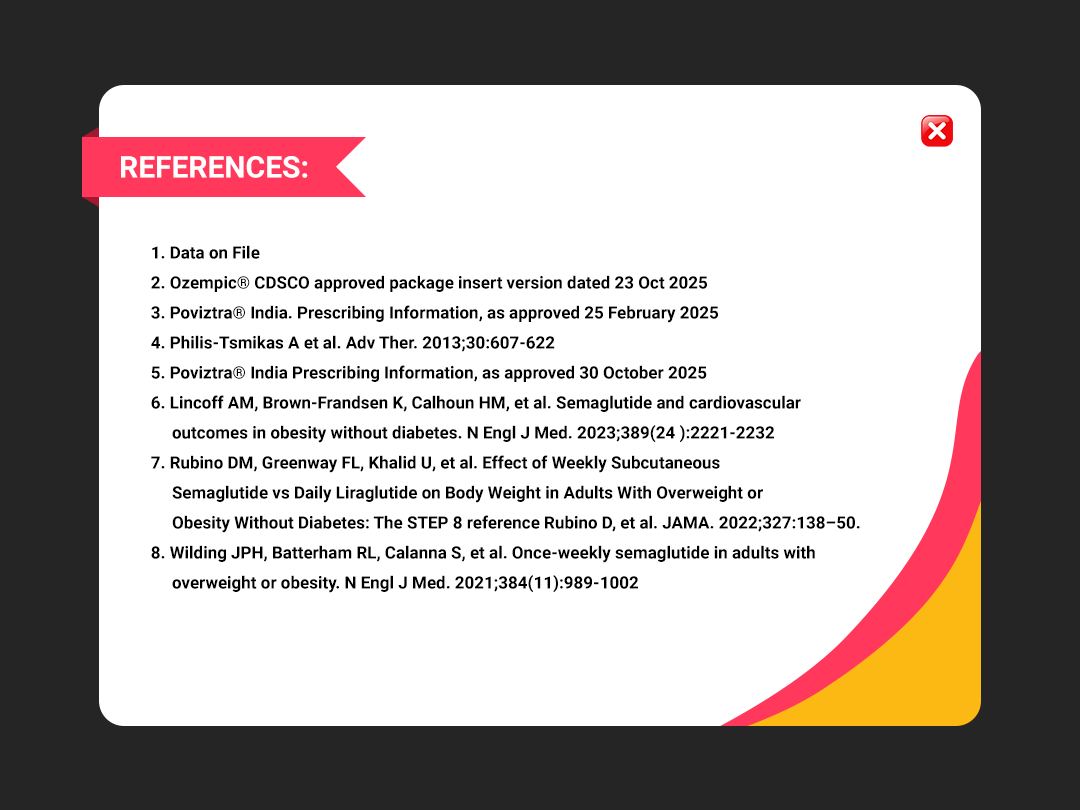
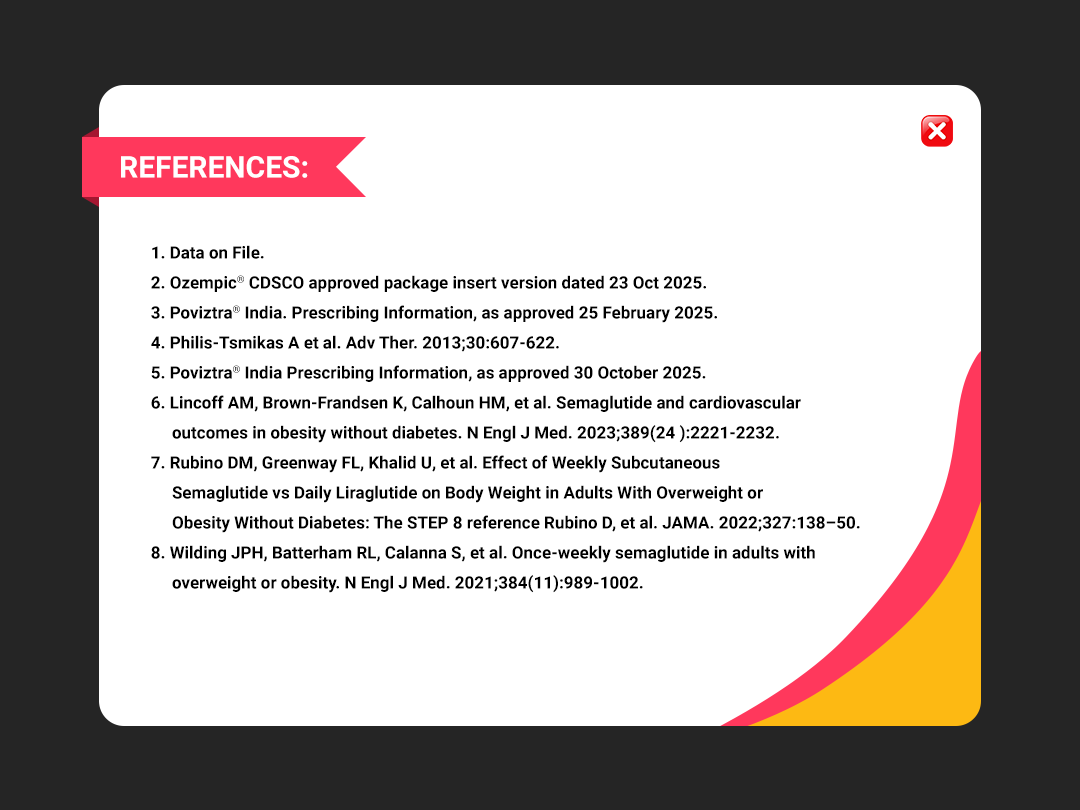
Update

Changed region(s): [[0.2139, 0.3395, 0.6722, 0.4012], [0.2139, 0.4321, 0.6722, 0.4938]]

diff --git a/slide2/slide2.js b/slide2/slide2.js
@@ -25,14 +25,14 @@ var POV_GAME_CONFIG = {
   },
 
   finalImage: 'slide2/shield.png',
-  finalText: 'You selected the parameters that matter the most,\nPoviztra delivers across every confidence driver – helping you prescribe with confidence every time.',
+  finalText: 'You selected the parameters that matter the most.\n<span class="finalText">Poviztra delivers</span> across every confidence driver – helping you prescribe with confidence every time.',
 
   parameters: [
     { parameter: 'PRODUCT QUALITY', usp: 'rDNA Technology<sup>1</sup>', icon: 'slide2/quality.png' },
 	{ parameter: 'PRODUCT PRICING', usp: 'Starts 3999/- Onwards<sup>1</sup>', icon: 'slide2/price.png' },
 	{ parameter: 'DEVICE\nEXPERIENCE', usp: 'FlexTouch Device<sup>2,3,4</sup>', icon: 'slide2/device.png' },
 	{ parameter: 'CLINICAL\nFINDINGS', usp: '50 Phase 3 Clinical Trials Conducted<sup>2,3</sup>', icon: 'slide2/clinical.png' },
-	{ parameter: 'CARDIO OUTCOMES', usp: 'SCORE Trial And STEER Trials<sup>3,5,6,7,8</sup>', icon: 'slide2/cardiovascular.png' },
+	{ parameter: 'CV OUTCOMES', usp: 'SCORE & STEER Trials<sup>3,5,6,7,8</sup>', icon: 'slide2/cardiovascular.png' },
 	{ parameter: 'STORAGE &\nTRANSPORT', usp: 'Robust & Reliable Cold-Chain<sup>1</sup>', icon: 'slide2/storage.png' },
 	{ parameter: 'REGULATORY\nAPPROVALS', usp: 'Approved By EMA, FDA, PMDA<sup>2,3</sup>', icon: 'slide2/regulatory.png' },
 	{ parameter: 'REAL WORLD\nEXPERIENCE', usp: '49M Patient-Years Of Experience<sup>1</sup>', icon: 'slide2/real-world.png' }
@@ -118,7 +118,7 @@ function bindPovEvents() {
   });
 
   $(document).off('click.povProceed').on('click.povProceed', '#povProceedBtn', function () {
-    showPovFuturePanel();
+	  begin();
   });
 }
 
@@ -304,7 +304,7 @@ function showPovCompletedState() {
 	 playPovSuccessSound();
 
      $('#povLeftPanel').fadeOut(220, function () {
-      $('#povActionPanel').fadeIn(220);
+      showPovFuturePanel();
      });
 
      $('#povBottomNote').html('Whatever builds your confidence, <span>Poviztra delivers with confidence.</span>');
@@ -314,24 +314,19 @@ function showPovCompletedState() {
 }
 
 function showPovFuturePanel() {
-  $('#povActionPanel').fadeOut(160, function () {
     $('#povFutureImage').attr('src', POV_GAME_CONFIG.finalImage).off('error').on('error', function () {
       $(this).hide();
     });
 
-    $('#povFutureText').text(POV_GAME_CONFIG.finalText);
+    $('#povFutureText').html(POV_GAME_CONFIG.finalText);
 	
 	if (typeof window.playPovPopItSound === "function") {
 		window.playPovPopItSound();
 	}
     setTimeout(function () {
       $('#povFuturePanel').fadeIn(50);
+	  $('#povActionPanel').fadeIn(50);
     }, 20);
-	setTimeout(function(){
-		go_nav('f');
-	}, 5000);
-	
-  });
 }
 
 function resetPovGame() {

diff --git a/slide2/slide2.css b/slide2/slide2.css
@@ -616,7 +616,7 @@
   display: none;
   position: absolute;
   left: 55px;
-  top: 345px;
+  top: 520px;
   width: 300px;
   z-index: 4;
 }
@@ -664,7 +664,7 @@
   display: none;
   position: absolute;
   left: 38px;
-  top: 225px;
+  top: 115px;
   width: 340px;
   height: 370px;
   border-radius: 24px;
@@ -678,8 +678,9 @@
 
 .pov-future-panel img {
   max-width: 100%;
-  max-height: 60px;
+  max-height: 70px;
   object-fit: contain;
+  margin-top: 5px;
 }
 
 .pov-future-panel div {
@@ -688,6 +689,10 @@
   font-size: 22px;
   line-height: 1.50;
   color: #16225c;
+}
+
+.pov-future-panel .finalText {
+  color: #ef3d65; 
 }
 
 .hit_1  {

diff --git a/slide1/slide1.css b/slide1/slide1.css
@@ -25,8 +25,8 @@ z-index: 1;
 .s2 {
 position: absolute;
 left: 62px;
-top: 36px;
-width: 174px;
+top: 25px;
+width: 176px;
 height: 63px;
 animation: zoomIn 0.5s;
 animation-delay: 0.1s;